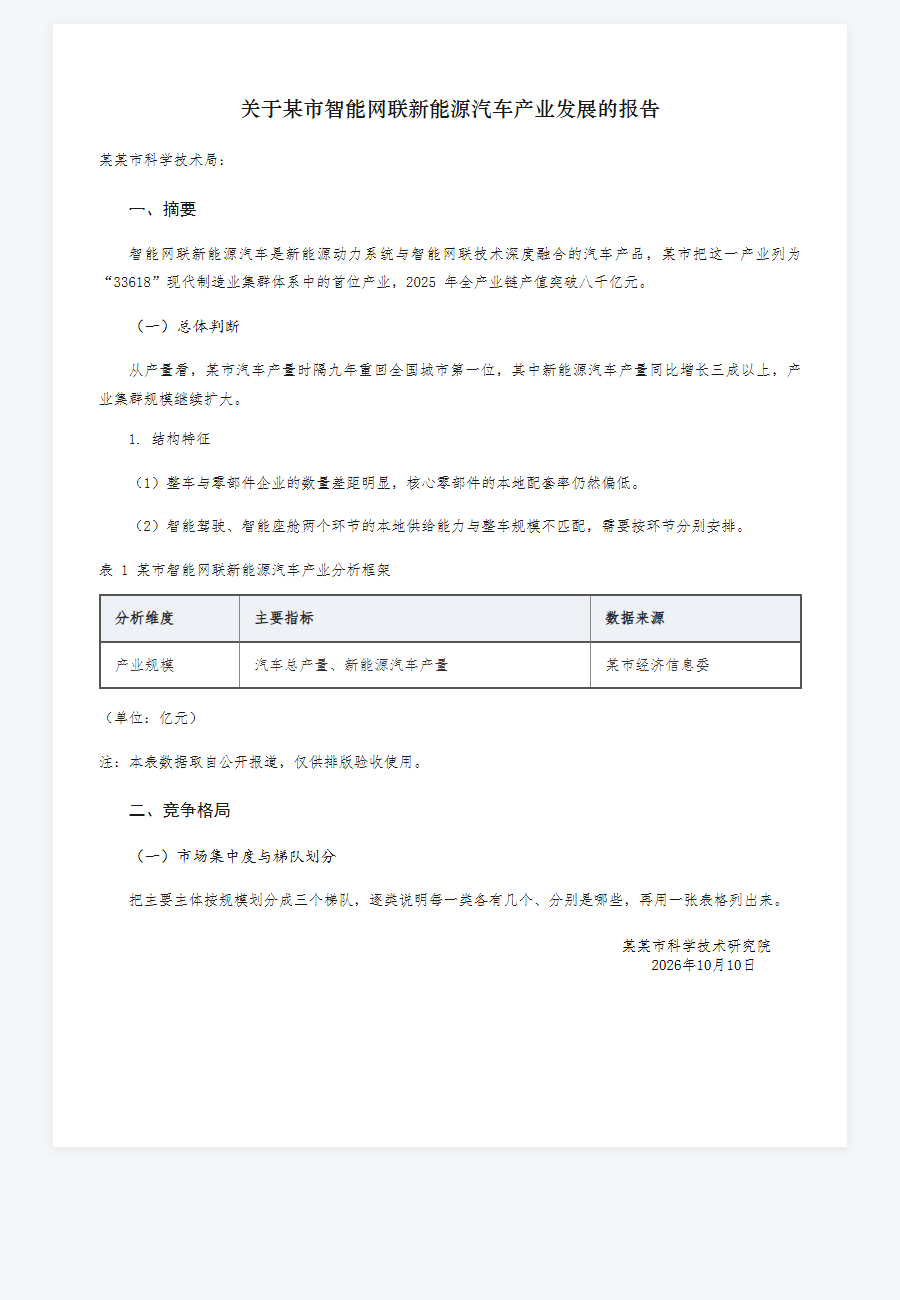
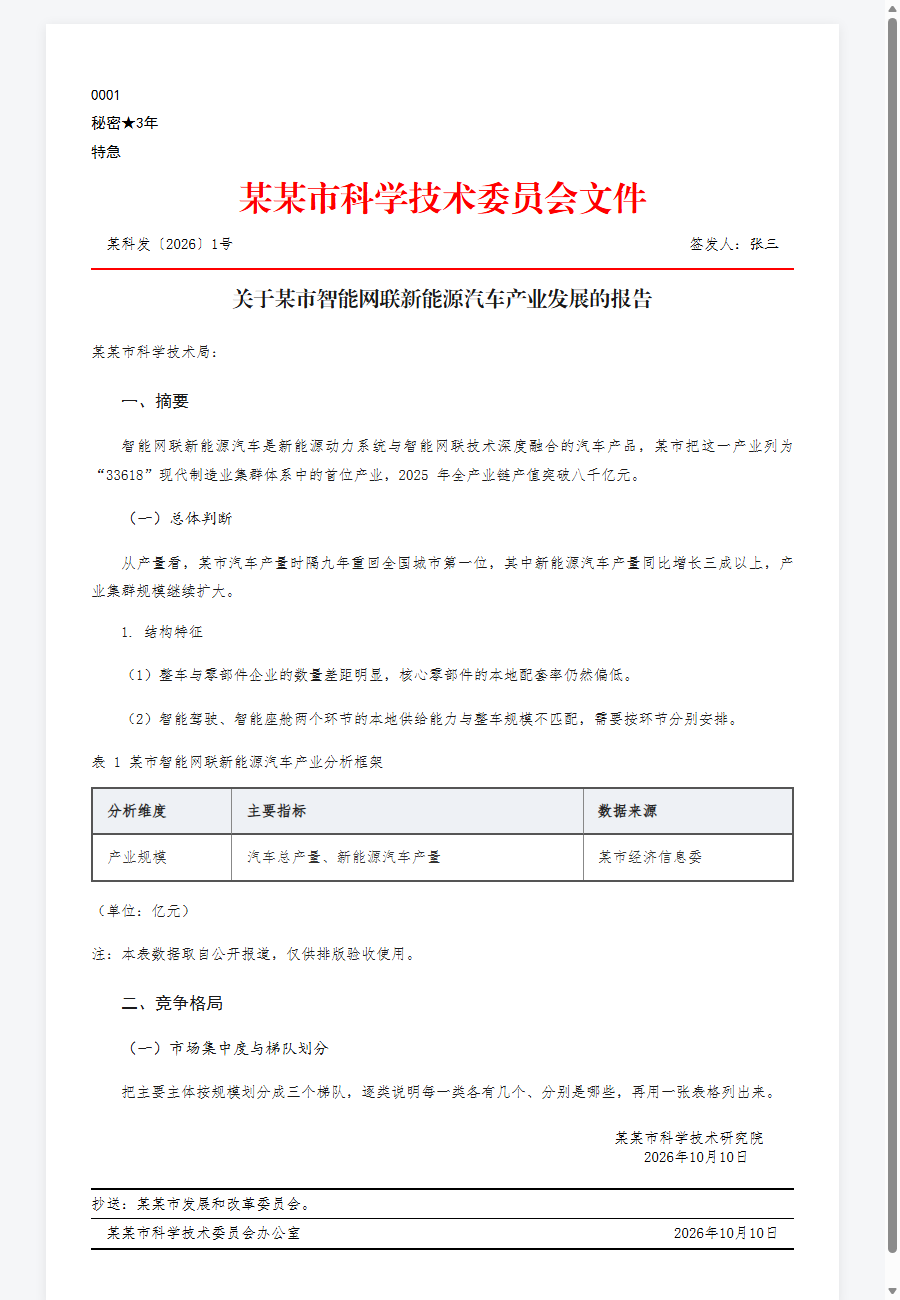
版式：加版头（红头/红色分隔线）和版记
preview 不再「不画版头版记」：build.py 加 9 个版头/版记参数，report.js 按
GB/T 9704 的 7.2/7.4 把字段排成版头（份号/密级/紧急/红头/发文字号/签发人/
红色分隔线）和版记（抄送/印发机关/印发日期），没给的整行不画（fail-closed）。
红头纯红 FF0000、落款仍走不加盖印章 7.3.5.2，与导出 Word 那一路同一口径。

diff --git a/preview/report.js b/preview/report.js
@@ -7,7 +7,8 @@
 
      await window.__reportPreview.load(markdown, opts, breaks)
 
-   opts   {recipient, org, date}   —— 主送机关、发文机关署名、成文日期（'YYYY-MM-DD'）
+   opts   {recipient, org, date, head} —— 主送机关、发文机关署名、成文日期（'YYYY-MM-DD'）、
+                                           版头/版记字段（见 mountHead / mountImprint）
    breaks {}                       —— 证伪用，见 applyBreaks()。默认全假。
 
    返回的 Promise 在**字体加载完、落款的右空算完**之后才 resolve —— 版式测试量的是
@@ -147,6 +148,126 @@
     }
   }
 
+  /* ============ 版头 ============
+
+     版头（标准 7.2）排在正文之前。和落款一样，字段由调用方给，**不进模型的输出**：
+     发文机关标志、发文字号、签发人这些是发文机关赋上的，模型编就是造假。
+
+     每一项都选填，没填的整行不写。自上而下：
+       份号 / 密级和保密期限 / 紧急程度 —— 顶格在版心左上角，3 号黑体；
+       发文机关标志 —— 居中、红色大字，这就是「红头」；
+       发文字号（有签发人时居左空一字、签发人居右空一字；没有签发人就居中）；
+       红色分隔线 —— 红色、与版心等宽，把版头和主体一刀切开。
+     红色分隔线跟发文字号/签发人绑在一起：没有这两样，说明版头不完整，线也不画 ——
+     和导出 Word 那一路（ai智能体 report_docx.masthead）同一个口径。 */
+  function headFields(head) {
+    head = head || {};
+    return {
+      top: ['copy_no', 'secret', 'urgency'].map(function (k) {
+        return (head[k] || '').trim();
+      }).filter(Boolean),
+      banner: (head.banner || '').trim(),
+      docNo: (head.doc_no || '').trim(),
+      signer: (head.signer || '').trim()
+    };
+  }
+
+  function mountHead(content, head) {
+    const f = headFields(head);
+    const any = f.top.length || f.banner || f.docNo || f.signer;
+    if (!any) return null;   // 一项都没填就不画 —— 不替发文机关编一个空壳版头
+    const old = content.querySelector('.doc-head');
+    if (old) old.remove();
+    const div = document.createElement('div');
+    div.className = 'doc-head';
+    for (const t of f.top) {
+      const p = document.createElement('p');
+      p.className = 'head-top';
+      p.textContent = t;       // textContent：字段是人给的，不进 HTML 解析
+      div.appendChild(p);
+    }
+    if (f.banner) {
+      const p = document.createElement('p');
+      p.className = 'head-banner';
+      p.textContent = f.banner;
+      div.appendChild(p);
+    }
+    if (f.docNo || f.signer) {
+      const row = document.createElement('div');
+      row.className = 'head-no';
+      const no = document.createElement('span');
+      no.className = 'head-doc-no';
+      no.textContent = f.docNo;
+      row.appendChild(no);
+      if (f.signer) {
+        const sg = document.createElement('span');
+        sg.className = 'head-signer';
+        const lab = document.createElement('span');
+        lab.textContent = '签发人：';
+        sg.appendChild(lab);
+        const nm = document.createElement('span');
+        nm.className = 'head-signer-name';
+        nm.textContent = f.signer;
+        sg.appendChild(nm);
+        row.appendChild(sg);
+      }
+      div.appendChild(row);
+      const rule = document.createElement('div');
+      rule.className = 'head-rule';
+      div.appendChild(rule);
+    }
+    // 版头在 .rendered 之前：公文的顺序就是版头 → 主体 → 版记
+    content.insertBefore(div, content.querySelector('.rendered'));
+    return div;
+  }
+
+  /* ============ 版记 ============
+
+     版记（标准 7.4）排在正文（和落款）之后：抄送机关、印发机关和印发日期，
+     首末两条粗线、中间一条细线，都与版心等宽。
+     **不复现「排在最后一面版心底端」这一条**：把一块内容锚到页面底部的定位，浏览器
+     打印做不了 —— 这里是接在落款后面另起一段排，和导出 Word 那一路的口径一致。 */
+  function mountImprint(content, head) {
+    head = head || {};
+    const cc = (head.cc || '').trim();
+    const printer = (head.printer || '').trim();
+    const pdate = (head.print_date || '').trim();
+    if (!(cc || printer || pdate)) return null;
+    const old = content.querySelector('.doc-imprint');
+    if (old) old.remove();
+    const div = document.createElement('div');
+    div.className = 'doc-imprint';
+    const rule = function (thin) {
+      const r = document.createElement('div');
+      r.className = 'imp-rule' + (thin ? ' imp-rule-thin' : '');
+      div.appendChild(r);
+    };
+    rule(false);
+    if (cc) {
+      const p = document.createElement('p');
+      p.className = 'imp-cc';
+      p.textContent = '抄送：' + cc.replace(/。+$/, '') + '。';
+      div.appendChild(p);
+    }
+    if (printer || pdate) {
+      if (cc) rule(true);   // 有抄送行才有「中间那条细线」把它和印发行隔开
+      const row = document.createElement('div');
+      row.className = 'imp-print';
+      const pr = document.createElement('span');
+      pr.className = 'imp-printer';
+      pr.textContent = printer;
+      row.appendChild(pr);
+      const dt = document.createElement('span');
+      dt.className = 'imp-date';
+      dt.textContent = pdate;
+      row.appendChild(dt);
+      div.appendChild(row);
+    }
+    rule(false);
+    content.appendChild(div);
+    return div;
+  }
+
   /* ============ 证伪用的四个旋钮 ============
 
      下面四种「改坏」都是把上面某一条判据的前提去掉，用来看测试到底有没有在判。
@@ -184,7 +305,9 @@
     applyBreaks(content, breaks);
     rendered.innerHTML = renderMarkdown(md);
     tagLines(rendered, opts.recipient);
+    mountHead(content, opts.head);              // 版头在正文之前
     const ps = mountSign(content, signLines(opts));
+    mountImprint(content, opts.head);           // 版记在落款之后
     /* **量落款宽度之前必须等字体就绪**：仿宋没加载完的时候量到的是一份替代字体的
        宽度，而那两个右空值是按宽度算出来的 —— 不等就偶发飘红，而且是那种「重跑一次
        就好了」的飘红，最难查。 */

diff --git a/preview/paper.css b/preview/paper.css
@@ -98,6 +98,53 @@ body {
             font-family: var(--doc-font); font-size: var(--body-size); }
 .doc-sign p { margin: 0 0 2px; padding-right: var(--body-indent); }
 
+/* ============ 版头（标准 7.2）============
+
+   和落款一样，字段由调用方给（见 report.js 的 mountHead），每一项选填、没填的整行不写。
+   份号/密级和保密期限/紧急程度是 3 号黑体、顶格在版心左上角；发文机关标志居中、红色、
+   大字 —— **「红头」的红就在这一处**，纯红 FF0000（和导出 Word 那一路同一个值），
+   不是深红也不是橘红；
+   发文字号（有签发人时居左空一字、签发人居右空一字）；红色分隔线红色、与版心等宽。
+   红头的字号没有固定标准（「无固定字号要求，醒目庄重为准」），纸面上取 36pt，屏幕
+   缩到 34px —— 和标题/正文在屏幕上的缩法一个道理（22pt→21px、16pt→15px）。 */
+.doc-head { margin: 0 0 4mm; }
+.doc-head .head-top {
+  font-family: "黑体", SimHei, sans-serif;
+  font-size: var(--body-size); line-height: 1.9; margin: 0;
+  text-indent: 0; text-align: left;
+}
+.doc-head .head-banner {
+  font-family: "小标宋", "方正小标宋简体", "STZhongsong", "华文中宋", SimSun, serif;
+  font-size: 34px; line-height: 1.4; margin: 10px 0 6px;
+  text-align: center; font-weight: normal; color: #ff0000;
+}
+.doc-head .head-no {
+  display: flex; justify-content: space-between; align-items: baseline;
+  font-family: var(--doc-font); font-size: var(--body-size); line-height: 1.9;
+  margin: 0;
+}
+.doc-head .head-doc-no { padding-left: 1em; }   /* 发文字号居左空一字 */
+.doc-head .head-signer { padding-right: 1em; }  /* 签发人居右空一字 */
+.doc-head .head-signer-name { font-family: "楷体", "KaiTi", "楷体_GB2312", serif; }
+.doc-head .head-rule { border-top: 1.5pt solid #ff0000; height: 0; margin: 0.6em 0 0; }
+
+/* ============ 版记（标准 7.4）============
+
+   抄送机关、印发机关和印发日期，接在落款后面。首末两条粗线、中间一条细线，都与版心
+   等宽。**不复现「排在最后一面版心底端」**，见 report.js 的 mountImprint。 */
+.doc-imprint {
+  margin: 6mm 0 0; font-family: var(--doc-font); font-size: var(--body-size);
+  line-height: 1.9;
+}
+.doc-imprint .imp-rule { border-top: 1.5pt solid #000; height: 0; margin: 0; }
+.doc-imprint .imp-rule-thin { border-top: 0.5pt solid #000; }
+.doc-imprint p { margin: 0; text-indent: 0; }
+.doc-imprint .imp-print {
+  display: flex; justify-content: space-between; align-items: baseline; margin: 0;
+}
+.doc-imprint .imp-printer { padding-left: 1em; }
+.doc-imprint .imp-date { padding-right: 1em; }
+
 .report-content .rendered ul, .report-content .rendered ol { padding-left: 20px; margin-bottom: 10px; }
 .report-content .rendered li { margin-bottom: 4px; }
 .report-content .rendered strong { font-weight: 600; }
@@ -158,9 +205,10 @@ body {
                         的 PDF 再过一遍 Word 公文模板，或者在打印对话框里勾「页脚」
                         （位置由浏览器定，不是标准样式）。
 
-   另外这里**不画版头也不画版记**（发文机关标志、红色分隔线、发文字号、签发人、抄送
-   机关、印发机关和印发日期）：这些都是发文机关在正式发文时赋上的，工具不知道，画上
-   去就是编。理由和范围见 gongwen/templates/report_template.md 里公文格式那一节。
+   版头和版记（发文机关标志、红色分隔线、发文字号、签发人、抄送机关、印发机关和印发
+   日期）**由调用方给字段才画**（build.py 的 --banner / --doc-no / --cc 等），没给的
+   整行不写 —— 这些是发文机关在正式发文时赋上的，工具不知道，绝不替它编。理由和范围
+   见 gongwen/templates/report_template.md 里公文格式那一节。
 
    @page 放在顶层而不是塞进 @media print 里：纸张尺寸和页边距只可能作用到这一份报告，
    不需要再套一层媒体查询。 */
@@ -246,4 +294,15 @@ body {
      没有机关名、只剩日期一行时的兜底。 */
   .doc-sign { margin: 10.2273mm 0 0; text-align: right; }
   .doc-sign p { margin: 0; padding-right: var(--body-indent); }
+  /* 版头：字号回到纸面 —— 份号/密级/紧急 3 号黑体、发文机关标志 36pt 红色、
+     发文字号和签发人 3 号仿宋（签发人姓名楷体，屏幕那条规则同样生效）。 */
+  .doc-head { margin: 0; }
+  .doc-head .head-top { font-size: 16pt; line-height: 10.2273mm; }
+  .doc-head .head-banner { font-size: 36pt; line-height: 1.45; margin: 0 0 10.2273mm; }
+  .doc-head .head-no { font-size: 16pt; line-height: 10.2273mm; }
+  .doc-head .head-rule { border-top: 1.5pt solid #ff0000; margin: 0 0 10.2273mm; }
+  /* 版记：3 号仿宋，首末粗线中间细线，接在落款后另起一行。 */
+  .doc-imprint { margin: 10.2273mm 0 0; font-size: 16pt; line-height: 10.2273mm; }
+  .doc-imprint .imp-rule { border-top: 1.5pt solid #000; }
+  .doc-imprint .imp-rule-thin { border-top: 0.5pt solid #000; }
 }

diff --git a/preview/probe.js b/preview/probe.js
@@ -67,7 +67,19 @@
         width: textWidth(ps[k])
       });
     }
-    return { left: left, sign: sign, errs: window.__errs || [] };
+    const head = {};
+    const hb = content.querySelector('.doc-head .head-banner');
+    head.banner = hb ? hb.textContent : null;
+    head.bannerColor = hb ? getComputedStyle(hb).color : null;
+    head.rule = !!content.querySelector('.doc-head .head-rule');
+
+    const imprint = {};
+    imprint.present = !!content.querySelector('.doc-imprint');
+    const ic = content.querySelector('.doc-imprint .imp-cc');
+    imprint.cc = ic ? ic.textContent : null;
+
+    return { left: left, sign: sign, head: head, imprint: imprint,
+             errs: window.__errs || [] };
   };
 
   window.__reportPreviewDump = function (obj) {

diff --git a/preview/page.html b/preview/page.html
@@ -22,7 +22,8 @@
   按 GB/T 9704—2012 排出来的样子；<code>--pdf 报告.pdf</code> 出可打印 PDF；
   <code>--break indent</code>（或 sign / font / table / paper）故意改坏一处。
 </div>
-<!-- 落款 .doc-sign 必须是 .rendered 的兄弟节点，和它一起挂在 .report-content 底下。
+<!-- 版头 .doc-head、落款 .doc-sign、版记 .doc-imprint 都必须是 .rendered 的兄弟节点，
+     一起挂在 .report-content 底下，顺序是 版头 → 正文(.rendered) → 落款 → 版记。
      字号和字族那对变量挂在 .report-content 上，挪进 .rendered 就继承不到，掉回 12pt。 -->
 <div class="report-content" id="reportContent">
   <div class="rendered" id="reportRendered"></div>

diff --git a/tests/test_print.py b/tests/test_print.py
@@ -15,6 +15,10 @@ import build                                              # noqa: E402  （previ
 SAMPLE = os.path.join(FIXTURES, 'print_sample.md')
 OPTS = {'recipient': '某某市科学技术局', 'org': '某某市科学技术研究院',
         'date': '2026-10-10'}
+HEAD = {'copy_no': '0001', 'secret': '秘密★3年', 'urgency': '特急',
+        'banner': '某某市科学技术委员会文件', 'doc_no': '某科发〔2026〕1号',
+        'signer': '张三', 'cc': '某某市发展和改革委员会',
+        'printer': '某某市科学技术委员会办公室', 'print_date': '2026年10月10日'}
 TO_TEXT = OPTS['recipient']      # 主送机关：标题下那一行，要顶格
 ORG_TEXT = OPTS['org']           # 发文机关署名：落款第一行，要右空二字
 
@@ -303,6 +307,27 @@ def main():
             if not ok:
                 print(f'      ✗ {name}：{detail}')
         t(hit, f'{brk} → 「{must}」报红' + ('' if hit else f'；实际报红的是 {red or "一条都没有"}'))
+
+    print('--- 版头/版记：给了字段就画，没给就不画（fail-closed）')
+    md = open(SAMPLE, encoding='utf-8').read()
+
+    def head_dom(with_head):
+        opts = dict(OPTS)
+        if with_head:
+            opts['head'] = HEAD
+        return build.measure(build.build_page(md, opts, {}, probe=True))
+
+    dom = head_dom(True)
+    hd = (dom or {}).get('head') or {}
+    im = (dom or {}).get('imprint') or {}
+    t(hd.get('banner') == HEAD['banner'], f'红头文字 = 给的字段（{hd.get("banner")!r}）')
+    t('255, 0, 0' in (hd.get('bannerColor') or ''), f'红头是红的（{hd.get("bannerColor")!r}）')
+    t(bool(hd.get('rule')), '红色分隔线画了')
+    t(bool(im.get('present')) and '抄送：' in (im.get('cc') or ''), '版记抄送行画了')
+    dom0 = head_dom(False)
+    t(not ((dom0 or {}).get('head') or {}).get('banner'), '没给版头字段：不画红头')
+    t(not ((dom0 or {}).get('imprint') or {}).get('present'), '没给版记字段：不画版记')
+
     return t.ok, t.notes
 
 

diff --git a/preview/build.py b/preview/build.py
@@ -133,6 +133,15 @@ def main():
     p.add_argument('--to', default='', help='主送机关（决定标题下那一行要不要顶格）')
     p.add_argument('--org', default='', help='发文机关署名')
     p.add_argument('--date', default='', help='成文日期 YYYY-MM-DD，默认本机当天')
+    p.add_argument('--copy-no', default='', help='版头：份号')
+    p.add_argument('--secret', default='', help='版头：密级和保密期限')
+    p.add_argument('--urgency', default='', help='版头：紧急程度')
+    p.add_argument('--banner', default='', help='版头：发文机关标志（红头）')
+    p.add_argument('--doc-no', default='', help='版头：发文字号')
+    p.add_argument('--signer', default='', help='版头：签发人')
+    p.add_argument('--cc', default='', help='版记：抄送机关')
+    p.add_argument('--printer', default='', help='版记：印发机关')
+    p.add_argument('--print-date', default='', help='版记：印发日期')
     p.add_argument('--png', metavar='PATH', help='截一张图')
     p.add_argument('--size', default='900x1300', metavar='WxH',
                    help='--png 的窗口尺寸，默认 900x1300（一页 A4 版心宽 794px）')
@@ -152,7 +161,11 @@ def main():
             md = f.read()
 
     breaks = {k: True for k in a.breaks}
-    page = build_page(md, {'recipient': a.to, 'org': a.org, 'date': a.date}, breaks,
+    head = {'copy_no': a.copy_no, 'secret': a.secret, 'urgency': a.urgency,
+            'banner': a.banner, 'doc_no': a.doc_no, 'signer': a.signer,
+            'cc': a.cc, 'printer': a.printer, 'print_date': a.print_date}
+    page = build_page(md, {'recipient': a.to, 'org': a.org, 'date': a.date,
+                           'head': head}, breaks,
                       capture=bool(a.png))
     print(f'页面 → {page}')
 

diff --git a/README.md b/README.md
@@ -4,7 +4,7 @@
 
 ![版式预览](docs/preview.png)
 
-上面这一页是 `fixtures/print_sample.md` 排出来的。标题居中、主送机关顶格、四级层次序数一律顶格、表格与正文统一 3 号字、表号表题写在表格上方、落款右空二字——这些都是判据在量的东西，不是画出来的。
+上面这一页是 `fixtures/print_sample.md` 排出来的。最上面是版头（份号、密级、紧急程度、红色「发文机关标志」、发文字号、签发人、红色分隔线），往下是居中标题、顶格的主送机关、一律顶格的四级层次序数、统一 3 号字的表格、写在表格上方的表号表题，结尾是右空二字的落款和版记——这些都是判据在量的东西，不是画出来的。版头/版记和落款一样由参数给，见下面「版头、版记和落款」一节。
 
 十六七条判据照着 GB/T 9704—2012 起出来，每条都能说清它拦的是什么：正文得是段落不是项目符号、层次序数怎么排、主送机关顶格、落款按 7.3.5.2 右空二字、表格和正文统一 3 号字、全文 8000–16000 字。
 
@@ -148,6 +148,30 @@ py preview/build.py --print-frontier                        # 这台机器上找
 README 顶上那张图就是第一条命令出的。`--png` 会藏掉页面顶部那行说明，截出来的只有文档本身。
 
 Markdown 渲染用 marked，安全过滤用 DOMPurify，两个库离线 vendored 在 `preview/vendor/`，不走 CDN。
+
+### 版头、版记和落款（`preview/build.py`）
+
+正文（标题、主送机关、正文）是 Markdown 里写的；版头、版记、落款**不写进 Markdown**，
+由 `preview/build.py` 按 GB/T 9704 的 7.2 / 7.4 / 7.3.5.2 排在正文前后。这些字段是发文
+机关在正式发文时赋上的，所以**没给的整行不画**，绝不替它编：
+
+```bash
+py preview/build.py fixtures/print_sample.md --png 版式.png \
+  --banner "某某市科学技术委员会文件" --doc-no "某科发〔2026〕1号" --signer "张三" \
+  --copy-no "0001" --secret "秘密★3年" --urgency "特急" \
+  --cc "某某市发展和改革委员会" --printer "某某市科学技术委员会办公室" \
+  --print-date "2026年10月10日"
+```
+
+| 块 | 内容 | 标志 |
+|---|---|---|
+| 版头 | 份号 / 密级和保密期限 / 紧急程度（3 号黑体顶格）、发文机关标志（居中**红色**大字，即「红头」）、发文字号、签发人、红色分隔线 | `--copy-no --secret --urgency --banner --doc-no --signer` |
+| 落款 | 发文机关署名、成文日期（不加盖印章：署名右空二字、日期首字右移二字） | `--org --date` |
+| 版记 | 抄送机关、印发机关和印发日期，首末粗线中间细线 | `--cc --printer --print-date` |
+
+落款走「不加盖印章」那条（标准 7.3.5.2），和导出 Word 那一路（原 ai智能体 的
+`report_docx.py`）同一个口径。版记不复现「排在最后一面版心底端」——浏览器打印做不了
+把一块内容锚到页面底部的定位，这里是接在落款后面另起一段排，内容和线形一致。
 
 ## 测试
 

diff --git a/fixtures/system_exemplar.md b/fixtures/system_exemplar.md
@@ -8,7 +8,7 @@
 
 ## 公文格式（GB/T 9704—2012《党政机关公文格式》）
 
-一份公文分版头、主体、版记三部分。本报告只生成**主体**里的内容：版头（份号、密级和保密期限、紧急程度、发文机关标志、发文字号、签发人）和版记（抄送机关、印发机关和印发日期）是发文机关在正式发文时赋上的，你不知道也不该替它编。主体里你写标题、主送机关和正文三件；**发文机关署名和成文日期由程序按标准排在你写的正文之后，你不要写这两行**。
+一份公文分版头、主体、版记三部分。你只写**主体**：标题、主送机关和正文。版头（份号、密级和保密期限、紧急程度、发文机关标志、发文字号、签发人、红色分隔线）、版记（抄送机关、印发机关和印发日期），以及发文机关署名和成文日期，都由程序按发文机关填写的字段排在正文前后——**你不要写这些**：它们不是报告内容，是发文机关在正式发文时赋上的，你不知道也不该替它编。
 
 1. **主送机关**（标准 7.3.2）。标题下空一行、单独一行、**居左顶格**，写报送机关的全称或规范化简称，末尾加**全角冒号**。
    本次的主送机关是「某某市发展和改革委员会」。**逐字照抄，不得简写、不得改写、不得加书名号**（例如「某某市科学技术局」不能写成「市科技局」或「某某市科技局」），末尾加全角冒号。

diff --git a/fixtures/system_gw.md b/fixtures/system_gw.md
@@ -7,7 +7,7 @@
 
 ## 公文格式（GB/T 9704—2012《党政机关公文格式》）
 
-一份公文分版头、主体、版记三部分。本报告只生成**主体**里的内容：版头（份号、密级和保密期限、紧急程度、发文机关标志、发文字号、签发人）和版记（抄送机关、印发机关和印发日期）是发文机关在正式发文时赋上的，你不知道也不该替它编。主体里你写标题、主送机关和正文三件；**发文机关署名和成文日期由程序按标准排在你写的正文之后，你不要写这两行**。
+一份公文分版头、主体、版记三部分。你只写**主体**：标题、主送机关和正文。版头（份号、密级和保密期限、紧急程度、发文机关标志、发文字号、签发人、红色分隔线）、版记（抄送机关、印发机关和印发日期），以及发文机关署名和成文日期，都由程序按发文机关填写的字段排在正文前后——**你不要写这些**：它们不是报告内容，是发文机关在正式发文时赋上的，你不知道也不该替它编。
 
 1. **主送机关**（标准 7.3.2）。标题下空一行、单独一行、**居左顶格**，写报送机关的全称或规范化简称，末尾加**全角冒号**。
    本次的主送机关是「某某市科学技术局」。**逐字照抄，不得简写、不得改写、不得加书名号**（例如「某某市科学技术局」不能写成「市科技局」或「某某市科技局」），末尾加全角冒号。

diff --git a/gongwen/templates/report_template.md b/gongwen/templates/report_template.md
@@ -7,7 +7,7 @@
 
 ## 公文格式（GB/T 9704—2012《党政机关公文格式》）
 
-一份公文分版头、主体、版记三部分。本报告只生成**主体**里的内容：版头（份号、密级和保密期限、紧急程度、发文机关标志、发文字号、签发人）和版记（抄送机关、印发机关和印发日期）是发文机关在正式发文时赋上的，你不知道也不该替它编。主体里你写标题、主送机关和正文三件；**发文机关署名和成文日期由程序按标准排在你写的正文之后，你不要写这两行**。
+一份公文分版头、主体、版记三部分。你只写**主体**：标题、主送机关和正文。版头（份号、密级和保密期限、紧急程度、发文机关标志、发文字号、签发人、红色分隔线）、版记（抄送机关、印发机关和印发日期），以及发文机关署名和成文日期，都由程序按发文机关填写的字段排在正文前后——**你不要写这些**：它们不是报告内容，是发文机关在正式发文时赋上的，你不知道也不该替它编。
 
 1. **主送机关**（标准 7.3.2）。标题下空一行、单独一行、**居左顶格**，写报送机关的全称或规范化简称，末尾加**全角冒号**。
    {{recipient}}
